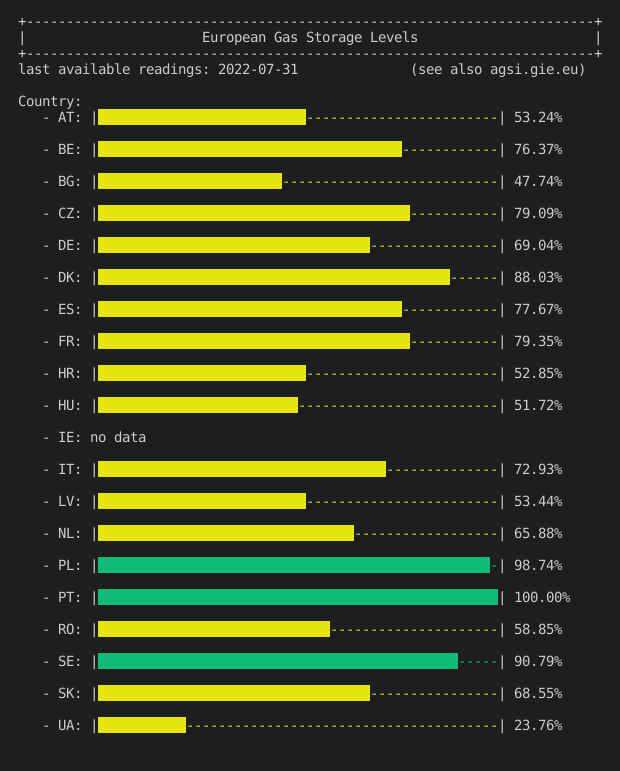
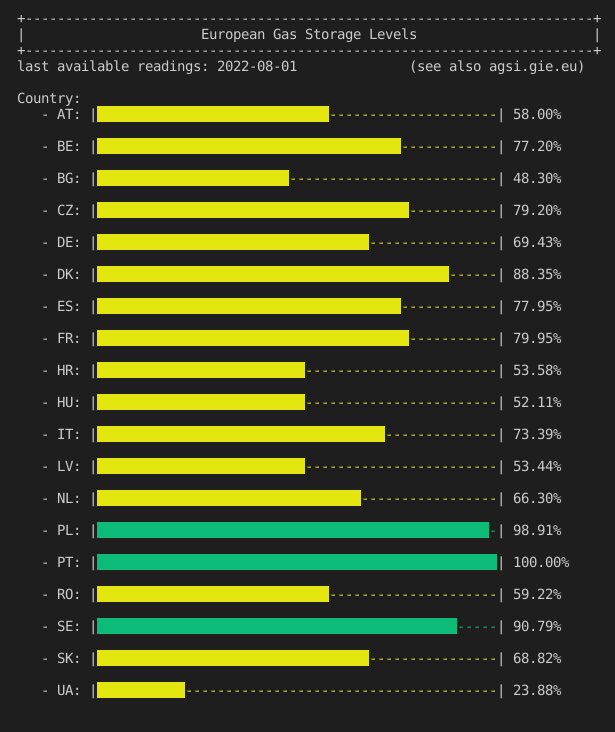
Removed Ireland from the list because there is no data available for it

diff --git a/AGSI_manager.py b/AGSI_manager.py
@@ -15,7 +15,7 @@ def getGasLevels():
     api_url = 'https://agsi.gie.eu/api'
 
     # Countries to be read
-    countries = ["AT", "BE", "BG", "CZ", "DE", "DK", "ES", "FR", "HR", "HU", "IE", "IT", "LV", "NL", "PL", "PT", "RO", "SE", "SK", "UA"]
+    countries = ["AT", "BE", "BG", "CZ", "DE", "DK", "ES", "FR", "HR", "HU", "IT", "LV", "NL", "PL", "PT", "RO", "SE", "SK", "UA"]
     
     print()
     print("+-----------------------------------------------------------------------+")
